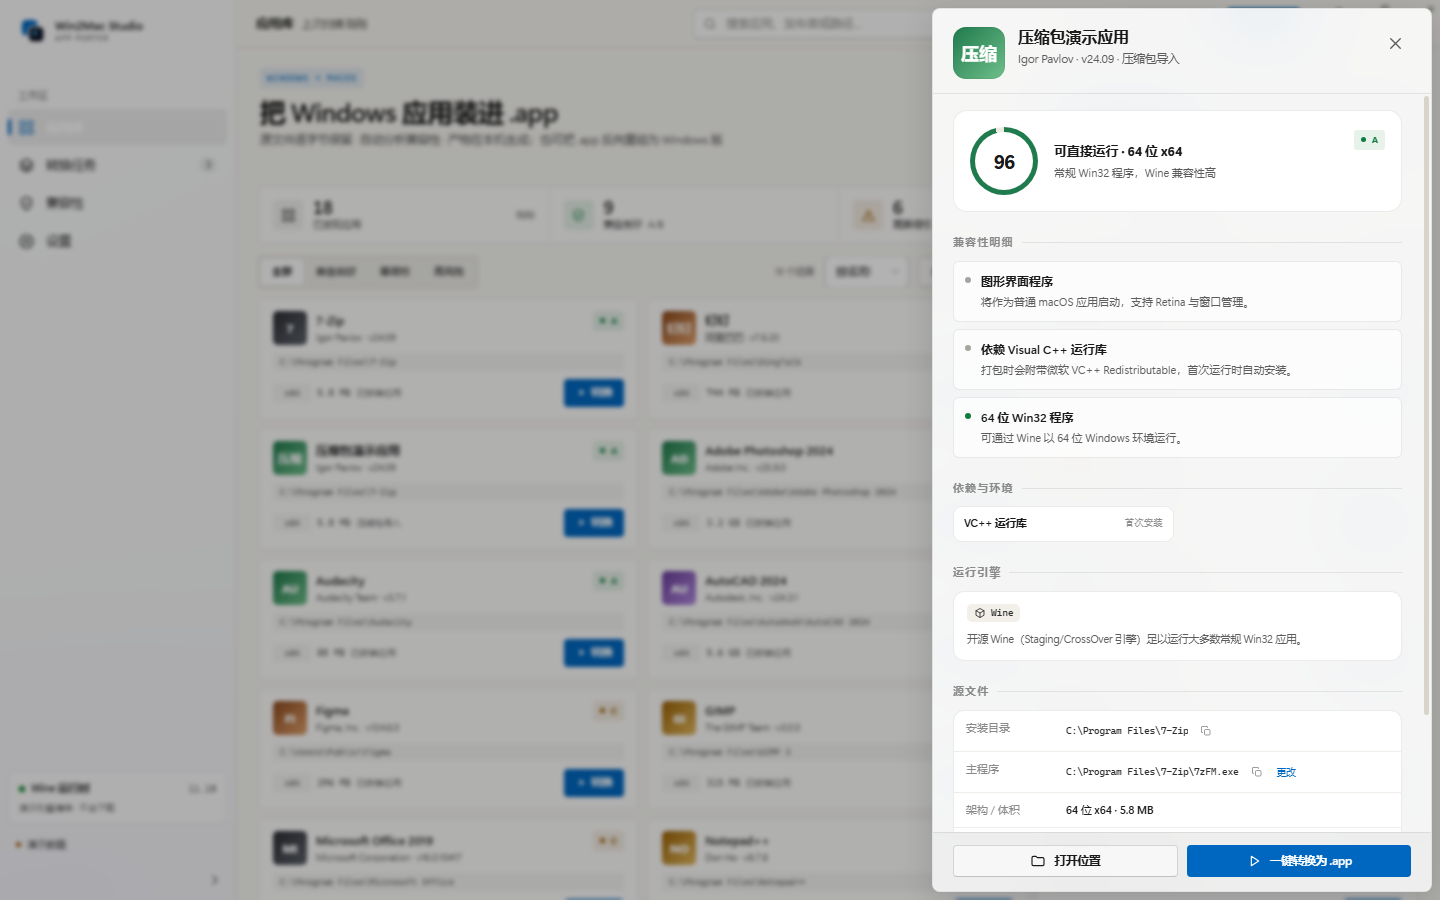
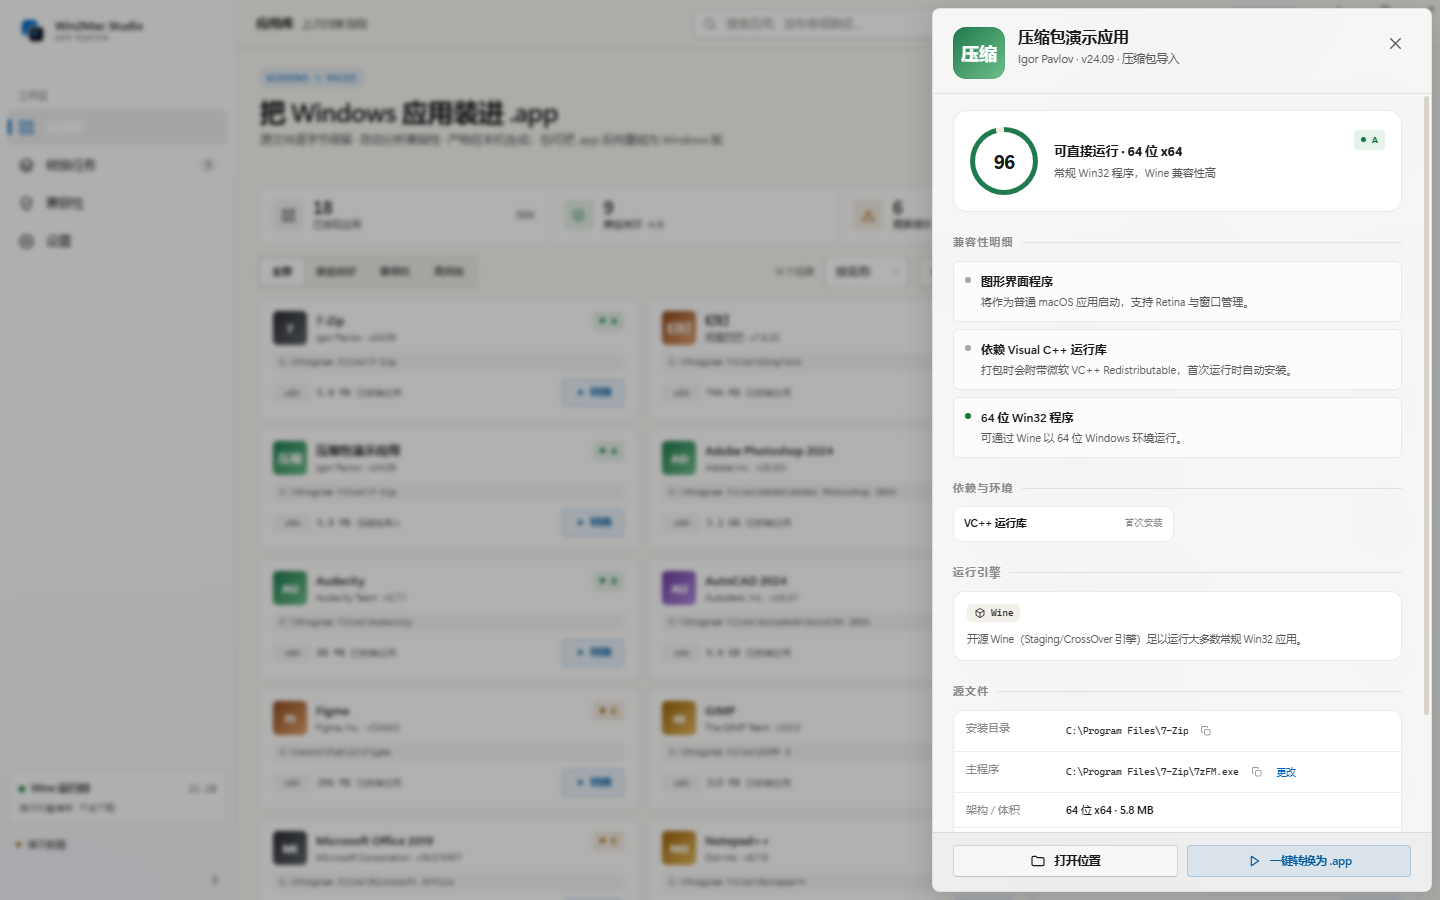
style(ui): 0.9.2 — 强调按钮改为浅蓝底深蓝字，窗口关闭 hover 去白色图标

diff --git a/app/demo.js b/app/demo.js
@@ -245,7 +245,7 @@
     isDemo: true,
     info: async () => ({
       name: 'Win2Mac Studio',
-      version: '0.9.1',
+      version: '0.9.2',
       electron: '—',
       node: '—',
       platform: 'win32',
@@ -354,7 +354,7 @@
       const recipe = {
         format: 'win2mac-recipe/v1',
         createdAt: new Date().toISOString(),
-        generator: { name: 'Win2Mac Studio', version: '0.9.1' },
+        generator: { name: 'Win2Mac Studio', version: '0.9.2' },
         app: { name: payload.app?.name || 'Demo App', publisher: payload.app?.publisher || '', version: payload.app?.version || '', exeName: 'app.exe', source: 'registry' },
         match: { name: payload.app?.name || 'Demo App', publisher: payload.app?.publisher || '', exeName: 'app.exe', bits: 64, size: payload.app?.estimatedSizeBytes || 0 },
         compatibility: { grade: payload.analysis?.grade || 'A', label: payload.analysis?.gradeLabel || '', summary: payload.analysis?.gradeSummary || '', recommendedEngine: 'wine' },
@@ -371,7 +371,7 @@
         recipe: {
           format: 'win2mac-recipe/v1',
           createdAt: new Date().toISOString(),
-          generator: { name: 'Win2Mac Studio', version: '0.9.1' },
+          generator: { name: 'Win2Mac Studio', version: '0.9.2' },
           app: { name: target.name, publisher: target.publisher, version: target.version, exeName: '7zFM.exe', source: 'registry' },
           match: { name: target.name, publisher: target.publisher, exeName: '7zFM.exe', bits: 64, size: target.estimatedSizeBytes },
           compatibility: { grade: 'A', label: '可直接运行', summary: '社区验证配方', recommendedEngine: 'wine' },

diff --git a/app/theme-winui.css b/app/theme-winui.css
@@ -434,3 +434,28 @@ body.nav-collapsed .nav-toggle:active { transform: translateX(-50%) scale(.96); 
 .drop-card h3 { font-size: 16px; font-weight: 600; letter-spacing: -.01em; }
 .drop-hint { background: var(--primary-soft); color: var(--primary); }
 .batch-bar { background: var(--layer); backdrop-filter: blur(18px); border-radius: 6px; box-shadow: none; }
+
+/* Soft accent buttons: avoid solid blue with white text */
+.btn-primary, .btn-accent,
+.drawer-foot .btn-primary, .modal-foot .btn-primary, .settings-foot .btn-primary,
+.ai-panel .btn-primary {
+  background: var(--primary-soft);
+  color: #005a9e;
+  border: 1px solid rgba(0, 103, 192, .22);
+}
+.btn-primary:hover, .btn-accent:hover,
+.drawer-foot .btn-primary:hover, .modal-foot .btn-primary:hover, .settings-foot .btn-primary:hover,
+.ai-panel .btn-primary:hover {
+  background: rgba(0, 103, 192, .15);
+  color: #00457c;
+}
+.row-convert {
+  background: var(--primary-soft);
+  color: #005a9e;
+  border: 1px solid rgba(0, 103, 192, .22);
+  box-shadow: none;
+}
+.row-convert:hover { background: rgba(0, 103, 192, .15); color: #00457c; }
+
+/* Window controls: keep hover soft (no white glyph) */
+.window-btn.close:hover { background: #fde7e9; color: #c42b1c; }

diff --git a/docs/RELEASE.md b/docs/RELEASE.md
@@ -1,4 +1,4 @@
-# Win2Mac Studio 0.9.1
+# Win2Mac Studio 0.9.2
 
 构建日期：2026-10-29 · Windows x64 · Electron 44.9.0
 
@@ -6,17 +6,22 @@
 
 | 文件 | 说明 |
 |---|---|
-| `release/Win2Mac-Studio-Setup-0.9.1.exe` | NSIS 安装程序（未签名） |
-| `release/win-unpacked-0.9.1/Win2Mac Studio.exe` | 免安装运行版（用于冒烟测试） |
-| `release/Win2Mac-MacCheck-0.9.1.zip` | 可独立发送的 Mac 验证工具包 |
+| `release/Win2Mac-Studio-Setup-0.9.2.exe` | NSIS 安装程序（未签名） |
+| `release/win-unpacked-0.9.2/Win2Mac Studio.exe` | 免安装运行版（用于冒烟测试） |
+| `release/Win2Mac-MacCheck-0.9.2.zip` | 可独立发送的 Mac 验证工具包 |
 | `release/SHA256SUMS.txt` | 以上三者 SHA-256 |
 
-- 安装包大小：120,890,374 bytes（约 115.3 MiB）
[3 lines of base64/hex data omitted]
-- 打包后 smoke：`version=0.9.1, bridge=true, nav=4, cacheGroups=3, ai.leaked=false`；ZIP 导入选中 `Smoke Fixture.exe`
+- 安装包大小：120,890,650 bytes（约 115.3 MiB）
[3 lines of base64/hex data omitted]
+- 打包后 smoke：`version=0.9.2, bridge=true, nav=4, cacheGroups=3, ai.leaked=false`；ZIP 导入选中 `Smoke Fixture.exe`
 - 真实 IPC UI 扫描 smoke：`174 apps / 174 icons / 0 pending / 0 scanError`
+
+## 0.9.2 强调按钮配色
+
+- 「扫描 / 转换 / 重新扫描 / 开始打包」改为 WinUI 柔和强调：浅蓝底 + 深蓝字，不再蓝底白字。
+- 窗口关闭按钮 hover 改为浅红底 + 深红图标。
 
 ## 0.9.1 自查修复
 
@@ -135,19 +140,19 @@
 
 诊断 ZIP 包含完整报告、系统/机型/CPU/显卡信息（过滤序列号等）、Info.plist、config.env、bundle.json、manifest、该应用 Wine 日志与失败时的 Integrity.log；不含应用 payload。
 
-独立工具包：`release/Win2Mac-MacCheck-0.9.1.zip`。
+独立工具包：`release/Win2Mac-MacCheck-0.9.2.zip`。
 
 ## 验证结果
 
 - 单元测试 52/52：新增“运行库直接调用、不用 start /wait”“arm64 引擎跳过 Rosetta”“服务依赖用合成 PE”等回归；ZIP 解压、恶意路径、配方/拖拽/缓存/Darwin 启动器/Mac 验证收集器/LF 行尾测试继续通过。
 - E2E 通过：notepad 打包、ZIP UTF-8/0755、注册表、内置引擎、运行时下载/SHA/缓存、VC++、安装器、CLI 配方构建；新增“引擎路径不能被日志污染”断言。
-- 打包后 smoke（0.9.1 便携版）：`archive.exe=Smoke Fixture.exe`、不含 `Uninstall`，`bridge=true / nav=4 / cacheGroups=3`。
+- 打包后 smoke（0.9.2 便携版）：`archive.exe=Smoke Fixture.exe`、不含 `Uninstall`，`bridge=true / nav=4 / cacheGroups=3`。
 - 真实 IPC 扫描：174 应用、174 图标、0 待分析、0 scanError。
 - 用实际 `客源雷达` ZIP（109 文件，根目录含 210 MB 主程序与 517 KB 卸载器）复现：主程序识别为 `客源雷达.exe`。
 
 ## 安装与运行
 
-1. 运行 `Win2Mac-Studio-Setup-0.9.1.exe`。安装包未签名，SmartScreen 可能要求“更多信息 → 仍要运行”。
+1. 运行 `Win2Mac-Studio-Setup-0.9.2.exe`。安装包未签名，SmartScreen 可能要求“更多信息 → 仍要运行”。
 2. 转换后把 ZIP 原样拷到 Mac，用 Finder 解压，双击 `Open-Win2Mac-App.command`。
 3. 若朋友侧报错，让他双击 `Start-Mac-Validation.command`，把桌面诊断 ZIP 发回。
 

diff --git a/README.md b/README.md
@@ -70,7 +70,7 @@ Windows 应用迁移到 Mac，现有工具几乎都在 Mac 端操作（Whisky、
 
 ### 最终用户（Windows 10/11 x64）
 
-1. 从 [GitHub Releases](https://github.com/cv-superding/win2mac-studio/releases) 下载并运行 `Win2Mac-Studio-Setup-0.9.1.exe`（未签名，SmartScreen 可能提示“更多信息 → 仍要运行”）。
+1. 从 [GitHub Releases](https://github.com/cv-superding/win2mac-studio/releases) 下载并运行 `Win2Mac-Studio-Setup-0.9.2.exe`（未签名，SmartScreen 可能提示“更多信息 → 仍要运行”）。
 2. 打开应用，点击“扫描已安装应用”。
 3. 点选应用查看分级与原因；确认后点“一键转换为 .app”。也可以在「设置」中改默认引擎，或用“批量”多选后队列转换。
 4. 有安装包时点“从安装包创建”，选择 `.exe`/`.msi`，填写预期主程序名（推荐）后打包；首次在 Mac 启动会自动运行安装器。
@@ -108,7 +108,7 @@ npm install
 npm run dist
 ```
 
-输出在 `release/Win2Mac-Studio-Setup-0.9.1.exe`。构建时 electron-builder 需要网络下载 NSIS 工具链；CI/国内网络请配置代理。
+输出在 `release/Win2Mac-Studio-Setup-0.9.2.exe`。构建时 electron-builder 需要网络下载 NSIS 工具链；CI/国内网络请配置代理。
 
 ## 三种引擎策略
 
@@ -183,7 +183,7 @@ npm run test:e2e :: 打包/首启二启/引擎下载/安装器工作流
 - 内置引擎：真实 xz 解压、缓存、引擎路径发现与启动；Gcenx Wine 11.18 真实下载、SHA-256 校验、内置包生成（186 MB ZIP）。
 - 运行时引擎下载：本地 HTTP 下载 → SHA-256 → 解压 → 启动；第二次启动复用缓存且不重复下载。
 - VC++ 运行时：真实下载 + Microsoft Authenticode 校验 + 模拟安装流程；Windows 服务依赖改为 C 级提示，不再误判 D。
-- 打包后的 Electron 应用通过无窗口 smoke test（preload 桥接、四个导航页面、版本 0.9.1）；真实 IPC 扫描 UI 也通过离屏 smoke-scan（172 应用 / 172 图标 / 0 分析挂起）。
+- 打包后的 Electron 应用通过无窗口 smoke test（preload 桥接、四个导航页面、版本 0.9.2）；真实 IPC 扫描 UI 也通过离屏 smoke-scan（172 应用 / 172 图标 / 0 分析挂起）。
 
 **macOS CI**：仓库内提供 [`.github/workflows/macos-verify.yml`](.github/workflows/macos-verify.yml)，在 `macos-14`/`macos-15` 上跑 `bash -n`、单元测试与真实 Darwin 启动器模拟。另有手动 `macos-real-smoke.yml`，只能在有 GUI/WindowServer 的 self-hosted Mac 上运行；GitHub 托管 Runner 无图形会话，Wine 无法启动 `win32k.sys`，不能验证真实窗口。
 

diff --git a/docs/MACOS-TESTING.md b/docs/MACOS-TESTING.md
@@ -17,7 +17,7 @@
 
 ## 1. 拷贝与解压
 
-1. 把 `release/Win2Mac-Studio-Setup-0.9.1.exe` 生成的 ZIP 原样拷到 Mac（不要经过会重写文件的同步盘）。
+1. 把 `release/Win2Mac-Studio-Setup-0.9.2.exe` 生成的 ZIP 原样拷到 Mac（不要经过会重写文件的同步盘）。
 2. 用 **Finder** 双击解压。
 3. 进入解压目录，先运行：
 

diff --git a/CHANGELOG.md b/CHANGELOG.md
@@ -1,5 +1,12 @@
 # Changelog
 
+## 0.9.2 — 2026-10-29
+
+### Changed
+
+- 强调按钮改用 WinUI 柔和强调样式：浅蓝底 + 深蓝字（扫描、转换、重新扫描、开始打包），不再使用蓝底白字。
+- 窗口关闭按钮 hover 改为浅红底 + 深红图标，避免白色字形。
+
 ## 0.9.1 — 2026-10-29
 
 ### Fixed

diff --git a/docs/RECIPE.md b/docs/RECIPE.md
@@ -8,7 +8,7 @@
 {
   "format": "win2mac-recipe/v1",
   "createdAt": "2026-10-28T08:00:00.000Z",
-  "generator": { "name": "Win2Mac Studio", "version": "0.9.1" },
+  "generator": { "name": "Win2Mac Studio", "version": "0.9.2" },
   "app": {
     "name": "7-Zip",
     "publisher": "Igor Pavlov",
